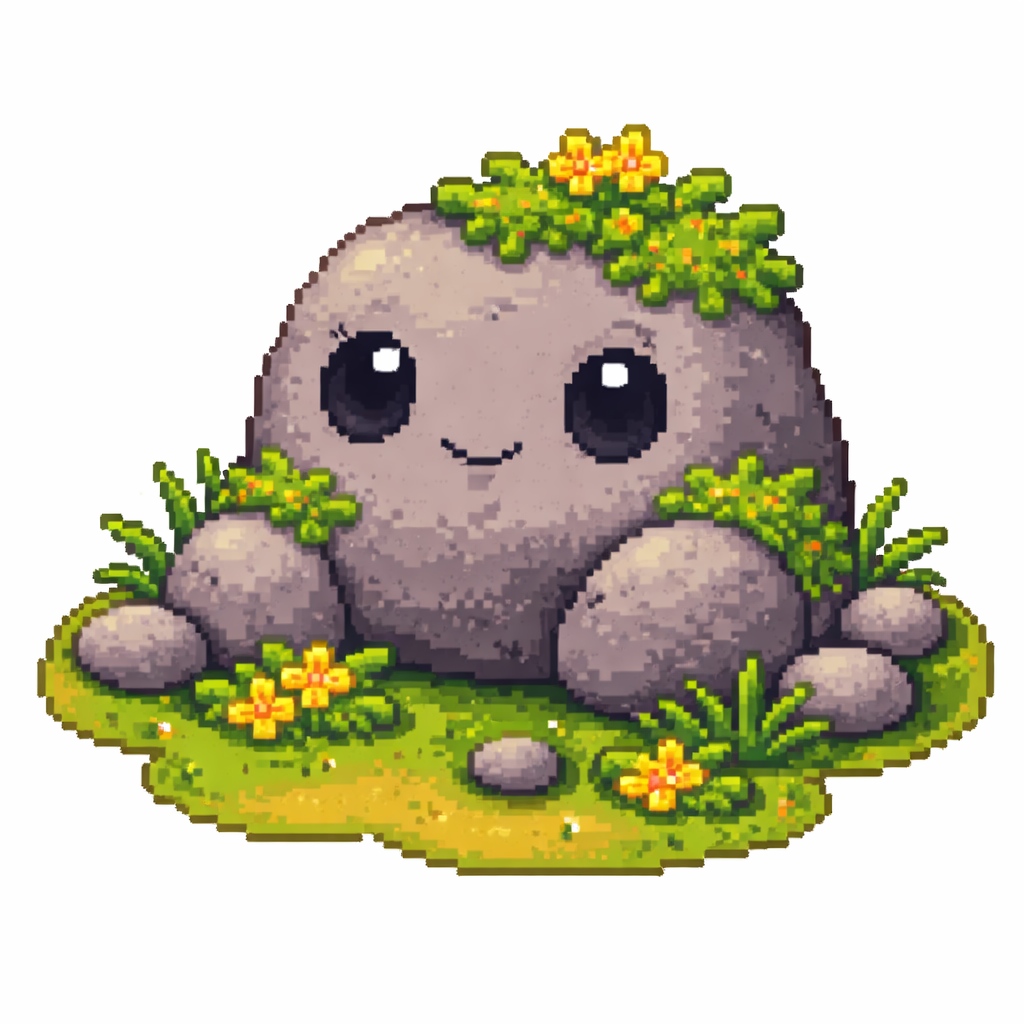
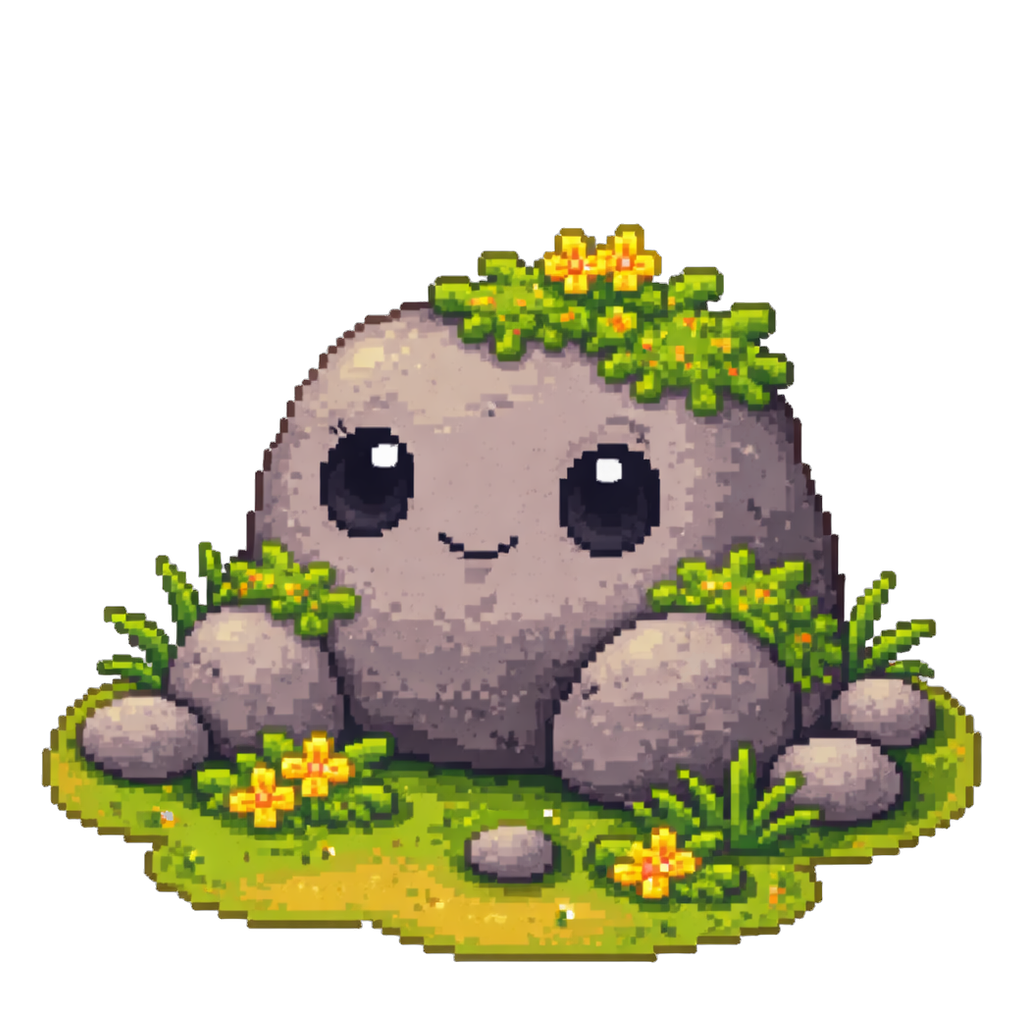
art: transparent backgrounds for 6 original companions (18 images)
Sprout, Pebble, Moss, Ember, Ripple and Astra were on opaque white
squares. They're cut out with rembg, keeping each one's small ground
platform, and reframed to the same margin as the new companions.
default variants refreshed. Nova's full-bleed scenes need a redraw.

diff --git a/Documents/IMAGE_REQUESTS.md b/Documents/IMAGE_REQUESTS.md
@@ -94,6 +94,6 @@ Files: `assets/journey/decorations/<id>.png`.
 ## Delivery checklist
 - [x] P0 icon set + splash (items 1–6), then the Play icon and feature graphic (7–8). Done 2026-09-29 from Sprout's real art (cut out with rembg) plus a ComfyUI valley for the feature graphic. The Play files are in `Documents/store/` and **not uploaded yet**.
 - [x] P1 the 5 placeholder companions × 3 stages. Done 2026-10-01 by Codex (PR #11, then Cindra evo1/evo2), reframed by Claude.
-- [ ] P2 the 7 existing companions redone transparent (21 images)
+- [ ] P2 the 7 existing companions redone transparent (21 images). 18 done 2026-10-01 by Claude (cutouts of Sprout, Pebble, Moss, Ember, Ripple and Astra, keeping their small ground platforms, reframed to the common margin). **Nova (3) still to do**: full-bleed space scenes need a redraw (Codex).
 - [x] P3 Journey: 8 tiles, 7 features, 8 camps, 8 banners, 14 decoration sprites. Done 2026-09-29 in ComfyUI (pixel-art LoRA) and wired into `JourneyScreen` through `src/constants/journeyImages.ts`. They ship as small JPG/PNG (2 MB total); the emoji stay as a fallback.
 - [ ] P4 sleepy moods, cosmetics
